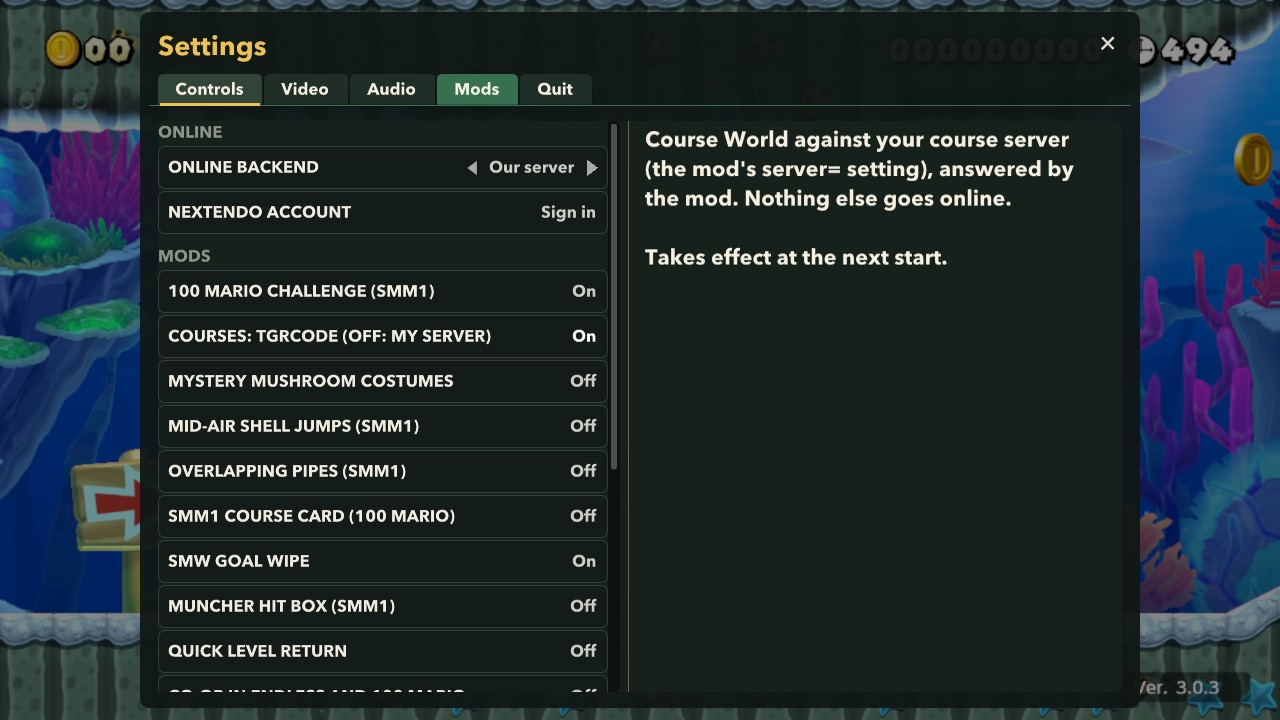
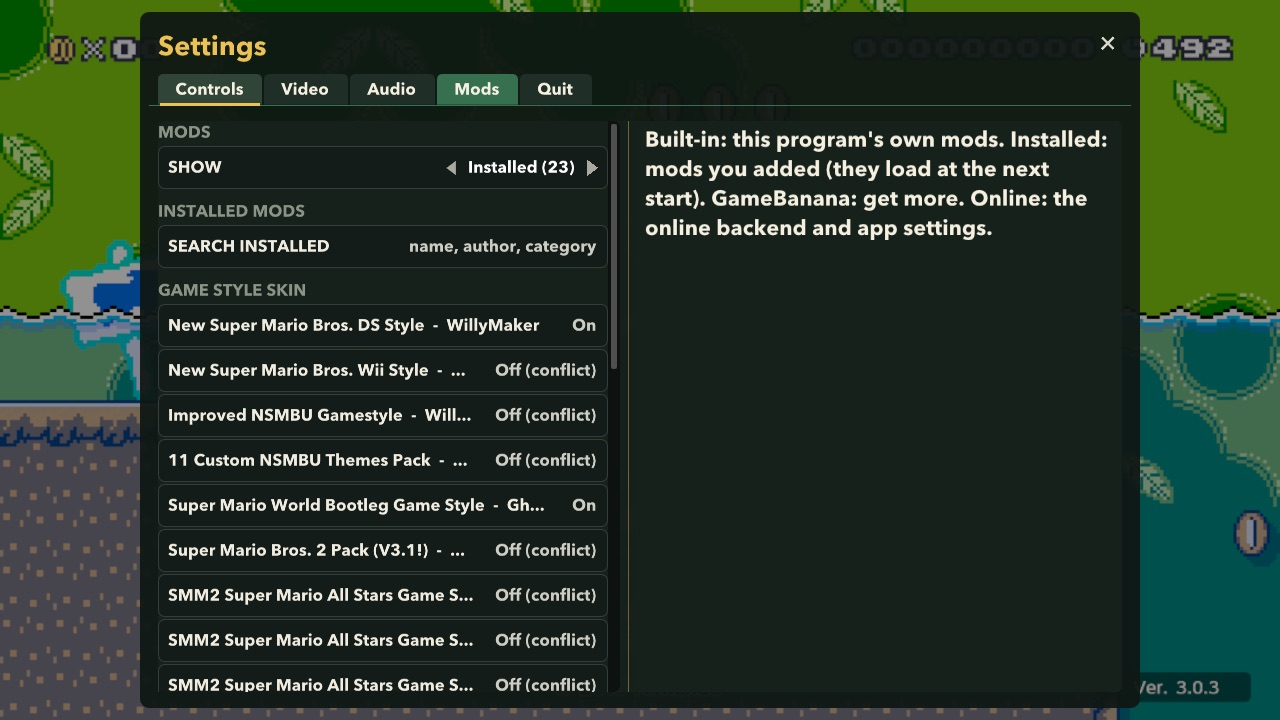
Mods: a run that stops on a fatal error with mods on turns them off at the next start (the Installed page says which); licences as plain text; long row values cut short; mod pages open from tests (LARECOMP_MODS_MOD / _GB). The overlay menu shows the version (Quit > About > Version, with the build nu

diff --git a/recomp/runtime/usermods.c b/recomp/runtime/usermods.c
@@ -38,6 +38,9 @@ static bool is_dir(const char *p) {
     return !stat(p, &st) && S_ISDIR(st.st_mode);
 }
 
+static void append_name(char *buf, size_t cap, const char *name);
+static void save_ini(void);
+
 // ---------------------------------------------------------------- mod.info (key=value; "\n" in values as \n)
 static void unescape(char *s) {
     char *o = s;
@@ -63,7 +66,14 @@ static void read_info(const char *id, UserMod *m) {
         if (!strcmp(k, "name") && *v) snprintf(m->name, sizeof m->name, "%s", v);
         else if (!strcmp(k, "author")) snprintf(m->author, sizeof m->author, "%s", v);
         else if (!strcmp(k, "category")) snprintf(m->category, sizeof m->category, "%s", v);
-        else if (!strcmp(k, "license")) snprintf(m->license, sizeof m->license, "%s", v);
+        else if (!strcmp(k, "license")) {  // (tags out: GameBanana's can be a link)
+            size_t o = 0;
+            for (const char *p = v; *p && o + 1 < sizeof m->license; p++) {
+                if (*p == '<') { const char *e = strchr(p, '>'); if (!e) break; p = e; continue; }
+                m->license[o++] = *p;
+            }
+            m->license[o] = 0;
+        }
         else if (!strcmp(k, "version")) snprintf(m->version, sizeof m->version, "%s", v);
         else if (!strcmp(k, "url")) snprintf(m->url, sizeof m->url, "%s", v);
         else if (!strcmp(k, "description")) snprintf(m->description, sizeof m->description, "%s", v);
@@ -197,8 +207,37 @@ static void scan_locked(void) {
     g_scanned = true;
     if (nn) save_ini();
 }
+// A run that stopped on a fatal error with mods on (usermods_note_crash, from the crash path) left mods/.crashed with
+// their ids: at the next start they're turned off, so a mod that breaks the game can't keep it from starting; the
+// Mods tab says so (usermods_crash_note), and the player can turn them back on.
+static char g_crash_note[600];
+static void crash_recovery_locked(void) {
+    FILE *f = fopen(USERMODS_DIR "/.crashed", "r");
+    if (!f) return;
+    char line[256];
+    bool any = false;
+    while (fgets(line, sizeof line, f)) {
+        line[strcspn(line, "\r\n")] = 0;
+        int i = find_id(line);
+        if (i < 0 || !g_e[i].m.enabled) continue;
+        g_e[i].m.enabled = false, any = true;
+        append_name(g_crash_note, sizeof g_crash_note, g_e[i].m.name);
+    }
+    fclose(f);
+    remove(USERMODS_DIR "/.crashed");
+    if (any) save_ini(), LOG("[usermods] the last run stopped with an error while mods were on: turned off: %s\n", g_crash_note);
+}
 static void ensure_scanned(void) {
-    if (!g_scanned) scan_locked();
+    if (!g_scanned) scan_locked(), crash_recovery_locked();
+}
+const char *usermods_crash_note(void) { return g_crash_note; }
+void usermods_note_crash(void) {
+    if (!g_started_set || !g_started[0] || pthread_mutex_trylock(&g_lock)) return;  // (no mods in this run, or busy)
+    FILE *f = fopen(USERMODS_DIR "/.crashed", "w");
+    for (int i = 0; f && i < g_n; i++)
+        if (g_e[i].m.enabled && g_e[i].m.has_romfs) fprintf(f, "%s\n", g_e[i].m.id);
+    if (f) fclose(f);
+    pthread_mutex_unlock(&g_lock);
 }
 
 void usermods_scan(void) {

diff --git a/recomp/runtime/ui/mods_page.mm b/recomp/runtime/ui/mods_page.mm
@@ -157,6 +157,13 @@ static void page_mod(int i) {
 static void page_installed(void) {
     if (g_mod >= 0) { page_mod(g_mod); return; }
     int n = usermods_count();
+    if (usermods_crash_note()[0]) {
+        opt_section("Turned off after an error");
+        char d[800];
+        snprintf(d, sizeof d, "The game stopped with an error while these mods were on, so they're off now: %s. If "
+                 "the error wasn't theirs, turn them back on below.", usermods_crash_note());
+        opt_action(usermods_crash_note(), "", d, false);
+    }
     apply_row();
     if (!n) {
         opt_section("Installed mods");
@@ -309,6 +316,8 @@ void mods_page_test(void) {
     if (done) return;
     done = true;
     if (const char *p = getenv("LARECOMP_MODS_PAGE")) g_page = atoi(p);
+    if (const char *p = getenv("LARECOMP_MODS_MOD")) g_mod = atoi(p);   // (an installed mod's page open)
+    if (const char *p = getenv("LARECOMP_MODS_GB")) g_gb = atoi(p);     // (a GameBanana mod's page open)
     if (getenv("RECOMP_GB_INSTALL")) {  // (a list: id[:file],...; one after another; RECOMP_GB_INSTALL_OFF=1: installed off)
         static pthread_t t;
         pthread_create(&t, NULL, [](void *) -> void * {
@@ -341,10 +350,10 @@ void mods_page(void) {
     if (np == 3) pages[2] = "Online";
     int page = np == 3 && g_page == 3 ? 2 : g_page;
     opt_section("Mods");
-    if (opt_choice("Show", &page, pages, np, 0, "Built-in: this program's own mods. Installed: mods you added (they "
-                   "load at the next start). GameBanana: get more. Online: the online backend and app settings.")) {
-        g_mod = -1, g_gb = 0;
-    }
+    int before = page;
+    opt_choice("Show", &page, pages, np, 0, "Built-in: this program's own mods. Installed: mods you added (they "
+               "load at the next start). GameBanana: get more. Online: the online backend and app settings.");
+    if (page != before) g_mod = -1, g_gb = 0;  // (another page: no mod's page open)
     g_page = np == 3 && page == 2 ? 3 : page;
     switch (g_page) {
     case 0: page_builtin(); break;

diff --git a/recomp/runtime/ui/option_rows.mm b/recomp/runtime/ui/option_rows.mm
@@ -101,7 +101,8 @@ static int row(const char *label, const std::string &value, bool changed, const 
     float ty = p.y + (h - fs) * 0.5f;
     ImU32 label_col = off ? IM_COL32(110, 110, 102, 255) : IM_COL32(240, 236, 224, 255);  // (greyed out: clearly dim)
     {  // a label that would run into the value is cut short with "..." (long names: mods, courses)
-        float vspace = value.empty() ? 0 : ImGui::CalcTextSize(value.c_str()).x + fs * (arrows ? 2.4f : 0.9f);
+        float vw0 = value.empty() ? 0 : ImGui::CalcTextSize(value.c_str()).x;
+        float vspace = value.empty() ? 0 : (vw0 < w * 0.6f ? vw0 : w * 0.6f) + fs * (arrows ? 2.4f : 0.9f);
         float room = w - 2 * pad - vspace;
         if (room > fs && ImGui::CalcTextSize(t.c_str()).x > room) {
             while (!t.empty() && ImGui::CalcTextSize((t + "...").c_str()).x > room) t.pop_back();
@@ -125,7 +126,15 @@ static int row(const char *label, const std::string &value, bool changed, const 
         }
         right = rx - gap;
     }
-    if (!value.empty()) {
+    std::string shown = value;  // (a value wider than most of the row is cut short too)
+    if (!shown.empty() && ImGui::CalcTextSize(shown.c_str()).x > w * 0.6f) {
+        while (!shown.empty() && ImGui::CalcTextSize((shown + "...").c_str()).x > w * 0.6f) shown.pop_back();
+        while (!shown.empty() && (shown.back() & 0xC0) == 0x80) shown.pop_back();
+        if (!shown.empty() && (unsigned char)shown.back() >= 0xC0) shown.pop_back();
+        shown += "...";
+    }
+    if (!shown.empty()) {
+        const std::string &value = shown;
         float vw = ImGui::CalcTextSize(value.c_str()).x, vx = right - vw;
         dl->AddText(ImVec2(vx, ty), off ? IM_COL32(110, 110, 102, 255) : changed ? IM_COL32(255, 255, 255, 255)
                                                                                  : IM_COL32(205, 205, 195, 255), value.c_str());

diff --git a/recomp/runtime/ui/menu.mm b/recomp/runtime/ui/menu.mm
@@ -619,6 +619,19 @@ static void tab_mods(void) {
 // Quit: back to the start screen (in game: the game reboots to it) or out to the desktop. Each asks first (progress
 // since the last save is lost); B / Esc or Cancel backs out.
 extern "C" void rt_request_reboot(int kind);  // runtime/main.c (RT_REBOOT_TITLE = 2: the start screen)
+// "v0.5.3" and, in an app bundle (iOS, the macOS app), its build number: "v0.5.3 (330)"
+extern "C" const char *launcher_version(void);  // runtime/ui/launcher.mm (RECOMP_VERSION)
+static const char *app_version(void) {
+    static char v[64];
+    if (!v[0]) {
+        snprintf(v, sizeof v, "%s", launcher_version());
+#ifdef __APPLE__
+        NSString *b = [[NSBundle mainBundle] objectForInfoDictionaryKey:@"CFBundleVersion"];
+        if (b.length && ![b isEqualToString:@"1"]) snprintf(v + strlen(v), sizeof v - strlen(v), " (%s)", b.UTF8String);
+#endif
+    }
+    return v;
+}
 static void tab_quit(float scale, bool in_game) {
     static int ask;  // 0: the two choices; 1: start screen?; 2: desktop?
     if (ask && (ImGui::IsKeyPressed(ImGuiKey_GamepadFaceRight, false) || ImGui::IsKeyPressed(ImGuiKey_Escape, false)))
@@ -648,6 +661,9 @@ static void tab_quit(float scale, bool in_game) {
         }
         if (opt_action("Cancel", "", "Stays where you are.")) ask = 0;
     }
+    opt_section("About");
+    opt_action("Version", app_version(), "This program's version (and build number, in an app). Please include it "
+               "in bug reports.", false);
     opt_end();
 }
 

diff --git a/recomp/runtime/gamebanana.c b/recomp/runtime/gamebanana.c
@@ -50,7 +50,8 @@ static Json *get_json(const char *url, char *why, size_t cap) {
     HttpResponse r;
     int st = http_request("GET", url, "Accept: application/json\r\n", NULL, 0, 20000, &r);
     if (st != 200 || !r.body) {
-        snprintf(why, cap, st ? "GameBanana answered %d" : "couldn't reach GameBanana (%s)", st, st ? "" : r.error);
+        if (st) snprintf(why, cap, "GameBanana answered %d", st);
+        else snprintf(why, cap, "couldn't reach GameBanana (%s)", r.error);
         http_free(&r);
         return NULL;
     }
@@ -161,7 +162,7 @@ static bool fetch_details(int id, GbMod *m, char *why, size_t cap) {
     copy_str(m->author, sizeof m->author, json_get(json_get(j, "_aSubmitter"), "_sName"));
     copy_str(m->category, sizeof m->category, json_get(json_get(j, "_aCategory"), "_sName"));
     if (!m->category[0]) copy_str(m->category, sizeof m->category, json_get(json_get(j, "_aRootCategory"), "_sName"));
-    copy_str(m->license, sizeof m->license, json_get(j, "_sLicense"));
+    html_text(json_str(json_get(j, "_sLicense"), ""), m->license, sizeof m->license);  // (it can be HTML: a link)
     copy_str(m->version, sizeof m->version, json_get(j, "_sVersion"));
     m->downloads = (int)json_num(json_get(j, "_nDownloadCount"), 0);
     m->likes = (int)json_num(json_get(j, "_nLikeCount"), 0);

diff --git a/recomp/runtime/usermods.h b/recomp/runtime/usermods.h
@@ -34,6 +34,9 @@ void usermods_move(int i, int delta);     // in the order (later = wins)
 bool usermods_remove(int i);              // deletes its folder
 int usermods_conflicts(int i, char *names, size_t cap);  // enabled mods that share a file with it (count; names)
 bool usermods_changed_since_start(void);  // the set differs from the one the running game was started with
+// The last run stopped on a fatal error with mods on: those were turned off at this start (their names; "" when not).
+const char *usermods_crash_note(void);
+void usermods_note_crash(void);  // (the crash path: notes which mods were on)
 
 // The game's side (at its RomFS's opening): the enabled mods' romfs folders, lowest priority first, one per line
 // (each ending in '\n'); the length written.

diff --git a/recomp/runtime/ui/launcher.mm b/recomp/runtime/ui/launcher.mm
@@ -116,6 +116,7 @@ static void env_set(const char *k, const char *v) {
 #ifndef RECOMP_VERSION
 #define RECOMP_VERSION "dev"
 #endif
+extern "C" const char *launcher_version(void) { return RECOMP_VERSION; }  // (the overlay menu's About row: menu.mm)
 #define RELEASES_API "https://api.github.com/repos/smm2recomp/smm2recomp/releases/latest"
 #define RELEASES_PAGE "https://github.com/smm2recomp/smm2recomp/releases"
 

diff --git a/recomp/runtime/dispatch.c b/recomp/runtime/dispatch.c
@@ -255,6 +255,8 @@ void rt_fatal_trace(void) {
     }
     extern void fnprof_dump_ring(void);
     fnprof_dump_ring();
+    extern void usermods_note_crash(void);  // (usermods.c: the mods that were on go off at the next start)
+    usermods_note_crash();
     plat_fatal_notice();
     // our crash handler also catches SIGABRT: without this abort() re-entered it forever (a 5 GB log)
     signal(SIGABRT, SIG_DFL);

diff --git a/PROGRESS.md b/PROGRESS.md
@@ -1,5 +1,39 @@
 # Progress
 
+## 2026-10-25 (resumed, owner: until credits run out, alongside SMCraft): mods, co-op fixes
+- **Mod loading (LayeredFS):** `runtime/usermods.c`: mods in the data folder's `mods/<id>/romfs` (+ `mod.info`: name,
+  author, licence, page), on / off and order in `mods/mods.ini`; the game's RomFS overlay is now a list (romfs_build.c
+  merges folders in order; fs.c, mods.c), the player's mods under our generated files, which are built from the mods'
+  versions (generators read through `usermods_find`; the generation id includes the enabled mods). Turning one on turns
+  off the enabled ones that share a file. Changes load at the next start ("Restart the game to apply" on the page).
+- **GameBanana:** `runtime/gamebanana.c` (apiv11: list most downloaded / search, details, install on a worker thread),
+  `runtime/archive.c` (the system's libarchive loaded at run time: macOS / iOS `/usr/lib/libarchive.2.dylib`, Windows
+  `archiveint.dll` then `tar.exe`, Linux `libarchive.so.13`; entries written by us, no "..", no links),
+  `http_download` (streams to a file, redirects), roots: USERTrust RSA and Sectigo R46 (files.gamebanana.com sends its
+  chain out of order). Tested on the Mac end to end in the game (NSMBU Mountain Theme, DS Style, 5 more). Windows'
+  archiveint.dll exports and the iOS dlopen path are untested.
+- **Mods tab rebuilt** (`runtime/ui/mods_page.mm`): pages Built-in / Installed (N) / GameBanana / Online; installed by
+  category with a search, a row opens the mod's page (on, order, open page, remove); GameBanana rows open a page with
+  details, file choice and "Install and turn on" (progress, cancel). Long labels cut with "...". Test switches:
+  `LARECOMP_MODS_PAGE=<n>`, `RECOMP_GB_INSTALL=<id>[:<file>],...` (+ `RECOMP_GB_INSTALL_OFF=1`).
+- **Metal:** mip levels clamped to the texture's size for every texture (a mod's 64x64 with 8 levels aborted Metal).
+- **Co-op (owner's testing):** 3D World courses now co-op too (SMM2 has none there, but they play: Luigi has his 3D World
+  model; `RECOMP_COOP_3DW=0` for SMM2's way); tested 2 and 4 players (all four visible in an SMW course; 4 set up in
+  3D World). The set-up's player count goes back to 1 for a course played alone after a co-op one (the skip into a 3D
+  World course that stayed black on the iPad came right after such a change; not reproduced in 8 co-op skips here).
+- **100 Mario's last course is a castle one** (server: `endless_next`, the queue slot of the run's last course).
+- **Mods that crash the game** are turned off at the next start (`usermods_note_crash` from the fatal path writes
+  `mods/.crashed`; the Installed page says which). GameBanana's top 22 checked in a test data folder
+  (`/Volumes/SSD/smm-work/modtest`, mods downloaded to `/Volumes/SSD/smm-work/gb-mods`, never in git): look confirmed
+  for NSMB DS / NSMB Wii / SMW Bootleg; 14 more load without errors; the two All-Stars styles crash wherever NSMBU or 3D
+  World shows (the author says so too: the title screen often is), NSMBU Tower Theme (2019) crashes at a course's load,
+  Super Modder Maker 2 needs all six parts; the two level packs aren't romfs mods. Nearly all share packs (Static.pack,
+  layouts, fonts): one at a time (the page turns the others off).
+- **Version in the overlay menu:** Quit tab > About > Version (`launcher_version()` + the bundle's build number on Apple).
+- **GitHub (2026-10-25):** replied #30 (try the integrated GPU via `recomp-test.env` `LARECOMP_GPU=1`, asked for the
+  log), #13 (Deck desktop-mode freeze after building: start from Gaming Mode; to look at); PR #22 reworked by mm2srv (all
+  three points done); told them to put the OCW rows on the new Online page; still waiting for the owner's OCW test.
+
 ## PAUSED 2026-10-25 after v0.5.2 (owner's call: all remaining effort on SMCraft); resume from here
 - **v0.5.2 (2026-10-25):** Windows starts without vulkan-1.dll and says what to install (a user's "vulkan-1.dll was not
   found", `research/user-vulkan-1-dll-error.png`): the exe no longer imports the loader; `tools/gen_vk_shim.py` builds
@@ -967,6 +1001,14 @@ Setup failures first, since they block new players:
 11. ✅ Exact sound timing: the owner found it fine in play (2026-10-22); no change made, nothing concrete to fix
 
 ### Future (owner's backlog, not scheduled)
+- ⬜ **Mods (2026-10-25):** IPS / exefs code patches (applied to the NSO before the game code is built: a rebuild per
+  set of code mods); save-file level packs (GameBanana's "Story Mode Levels in Coursebot", "Quest stone": into the save,
+  not the RomFS); a GPU picker in the Video tab (#30: dual-GPU laptops); the Steam Deck freezing after building in
+  desktop mode (#13). Worth a look from GameBanana's next 30 (they install from the GameBanana page as they are; not
+  checked yet): Classic Angry Sun, Peachette over Toadette, Sonic in SMM2, Yoshi's Island, Kirby's Adventure, Super
+  Mario Bros. Wonder (beta), Autumn, Extra Night Backgrounds, NSMBU Beach / Frozen Castle / Desert Cave / Volcano
+  themes, Crystal Caves, Pumpkin Boneyard, SMB2 All-Stars style, star coin (all styles), ChaosMarioMaker / Chaos Mod
+  (probably code patches).
 - ⬜ **From GitHub (2026-10-25, replied "noted"):** #26 Course Maker PC controls (wheel zoom, right-click erase,
   middle-click pan, Ctrl+Z / Y / C / V, number keys for the palettes); #27 package repositories (Flatpak / Snap,
   Homebrew cask, Scoop); #19 a Discord server for players and contributors (the owner's call); #20 OpenCourse World:
